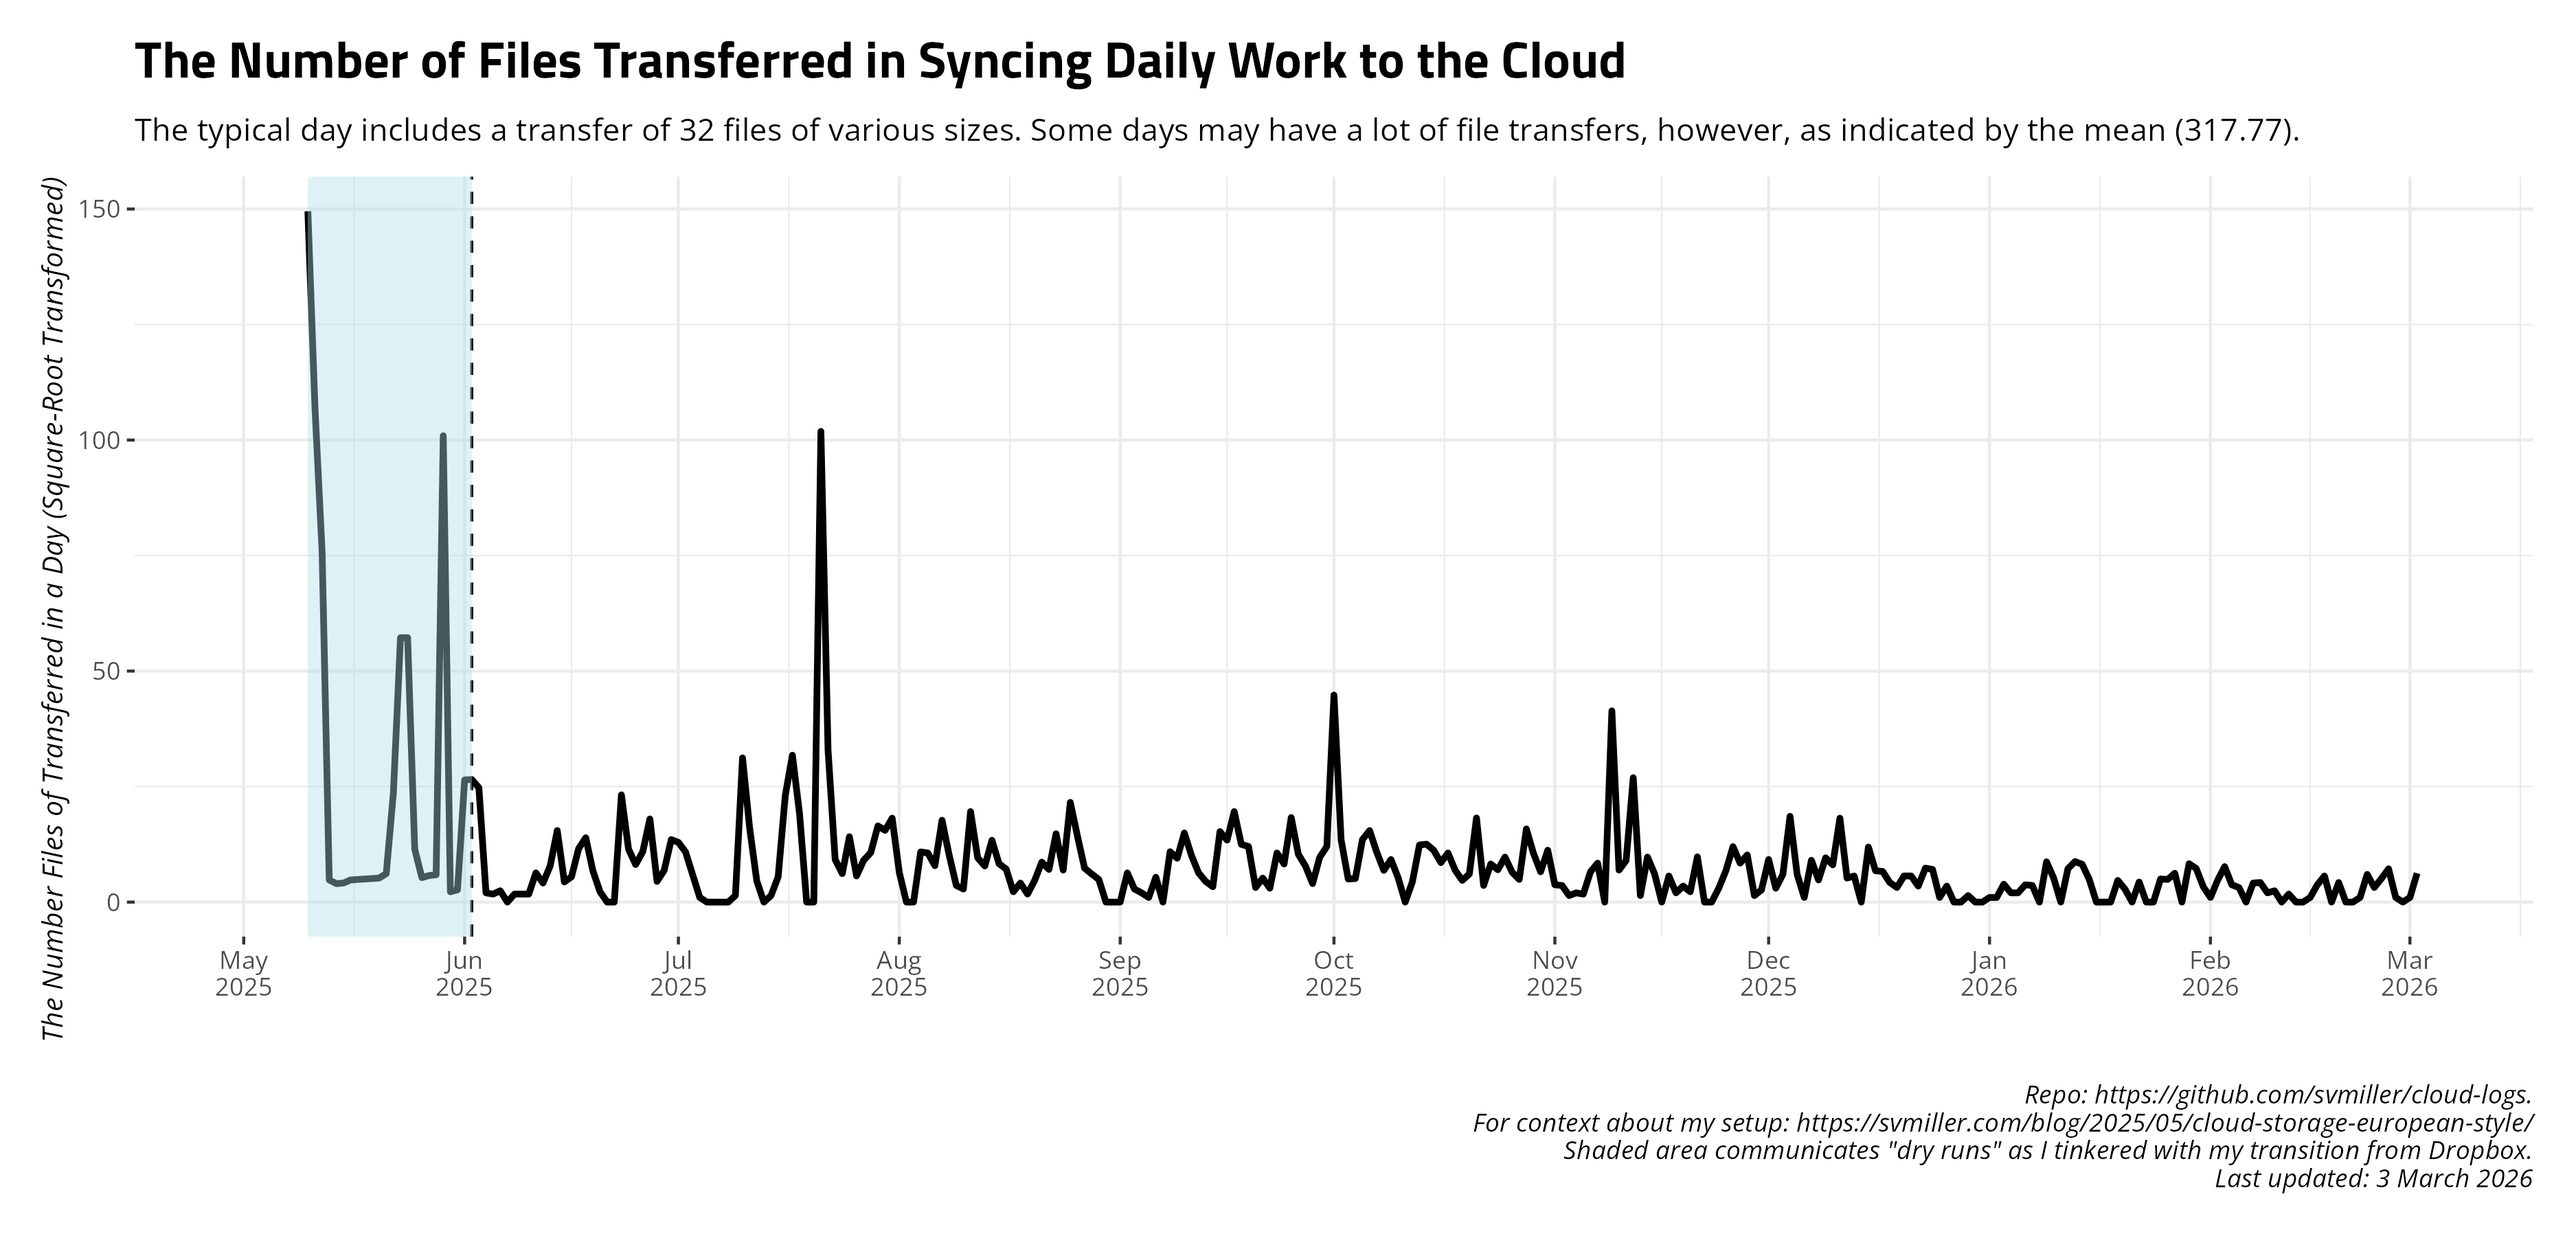
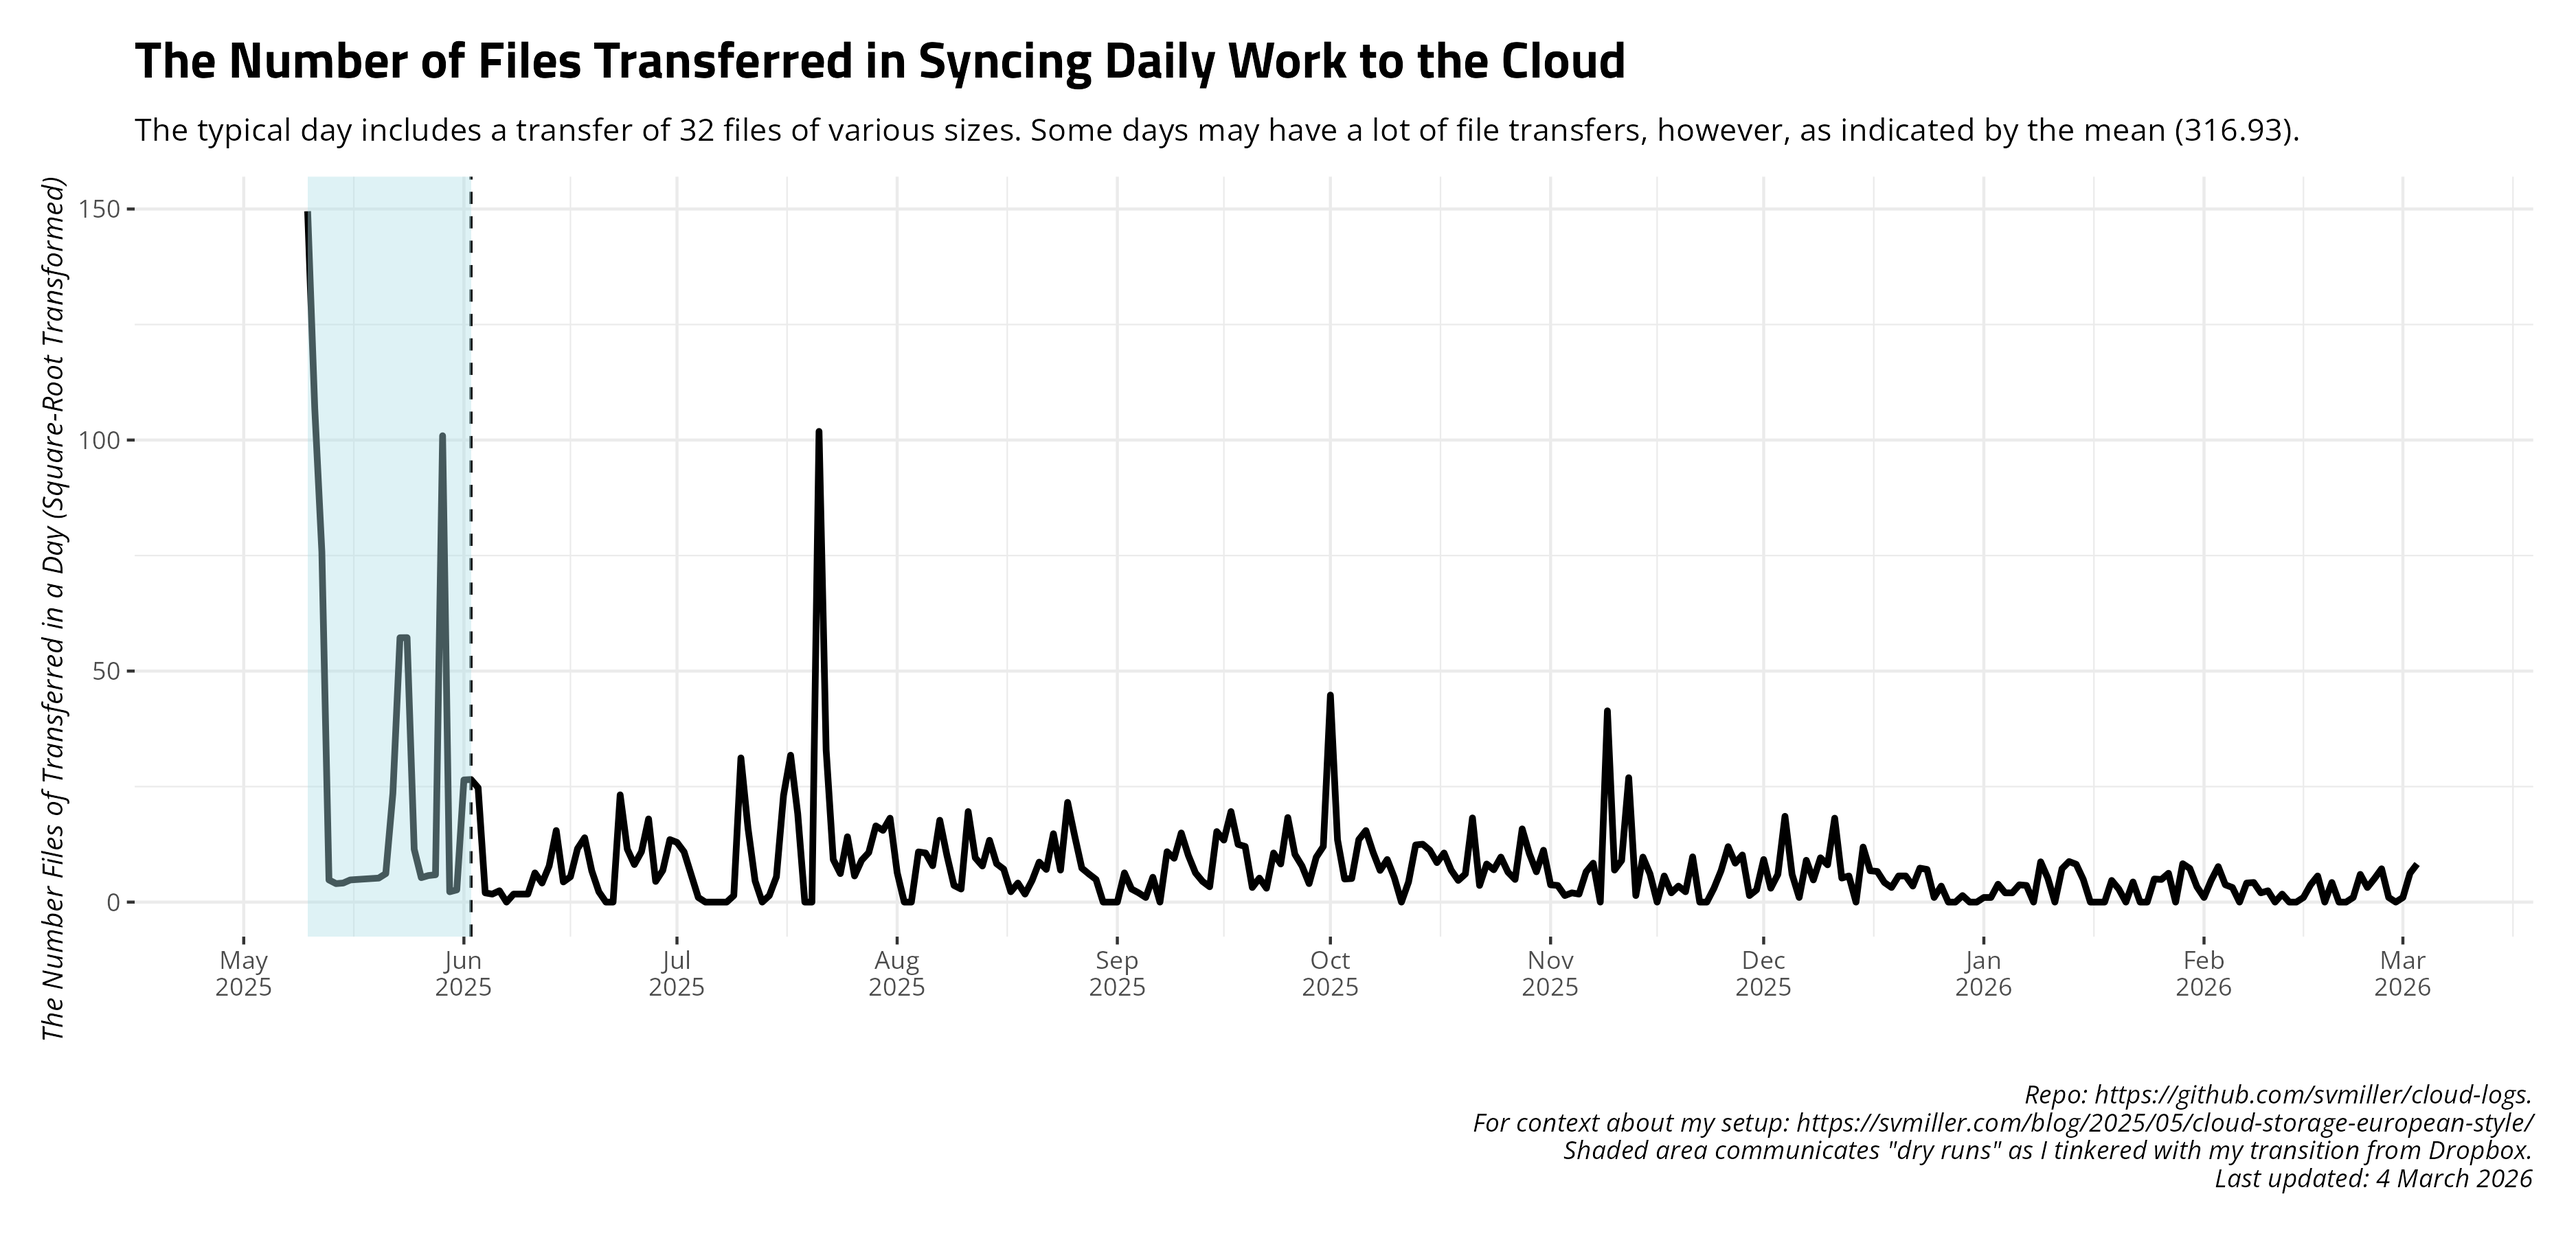
Date: 2026-03-04 09:00:23. Hi mom!

diff --git a/README.md b/README.md
@@ -27,17 +27,17 @@ and uploads to Github.
     #> # A tibble: 14 × 4
     #>    date       ftransfer stransfer   elapsed
     #>    <date>         <dbl> <chr>       <chr>  
-    #>  1 2026-02-17        32 7.148 MiB   4m6.9s 
-    #>  2 2026-02-18         0 <NA>        4m56.9s
-    #>  3 2026-02-19        18 68.442 KiB  4m24.1s
-    #>  4 2026-02-20         0 <NA>        4m32.5s
-    #>  5 2026-02-21         0 <NA>        4m21.1s
-    #>  6 2026-02-22         1 5.451 KiB   4m31.2s
-    #>  7 2026-02-23        36 36.310 MiB  4m27.7s
-    #>  8 2026-02-24        10 102.766 KiB 5m52.5s
-    #>  9 2026-02-25        26 597.885 KiB 6m31.5s
-    #> 10 2026-02-26        52 1.423 MiB   6m32.0s
-    #> 11 2026-02-27         1 57.085 KiB  6m56.7s
-    #> 12 2026-02-28         0 <NA>        5m11.6s
-    #> 13 2026-03-01         1 54.132 KiB  5m10.4s
-    #> 14 2026-03-02        39 1.947 MiB   4m27.2s
+    #>  1 2026-02-18         0 <NA>        4m56.9s
+    #>  2 2026-02-19        18 68.442 KiB  4m24.1s
+    #>  3 2026-02-20         0 <NA>        4m32.5s
+    #>  4 2026-02-21         0 <NA>        4m21.1s
+    #>  5 2026-02-22         1 5.451 KiB   4m31.2s
+    #>  6 2026-02-23        36 36.310 MiB  4m27.7s
+    #>  7 2026-02-24        10 102.766 KiB 5m52.5s
+    #>  8 2026-02-25        26 597.885 KiB 6m31.5s
+    #>  9 2026-02-26        52 1.423 MiB   6m32.0s
+    #> 10 2026-02-27         1 57.085 KiB  6m56.7s
+    #> 11 2026-02-28         0 <NA>        5m11.6s
+    #> 12 2026-03-01         1 54.132 KiB  5m10.4s
+    #> 13 2026-03-02        39 1.947 MiB   4m27.2s
+    #> 14 2026-03-03        68 1.023 MiB   5m0.6s
